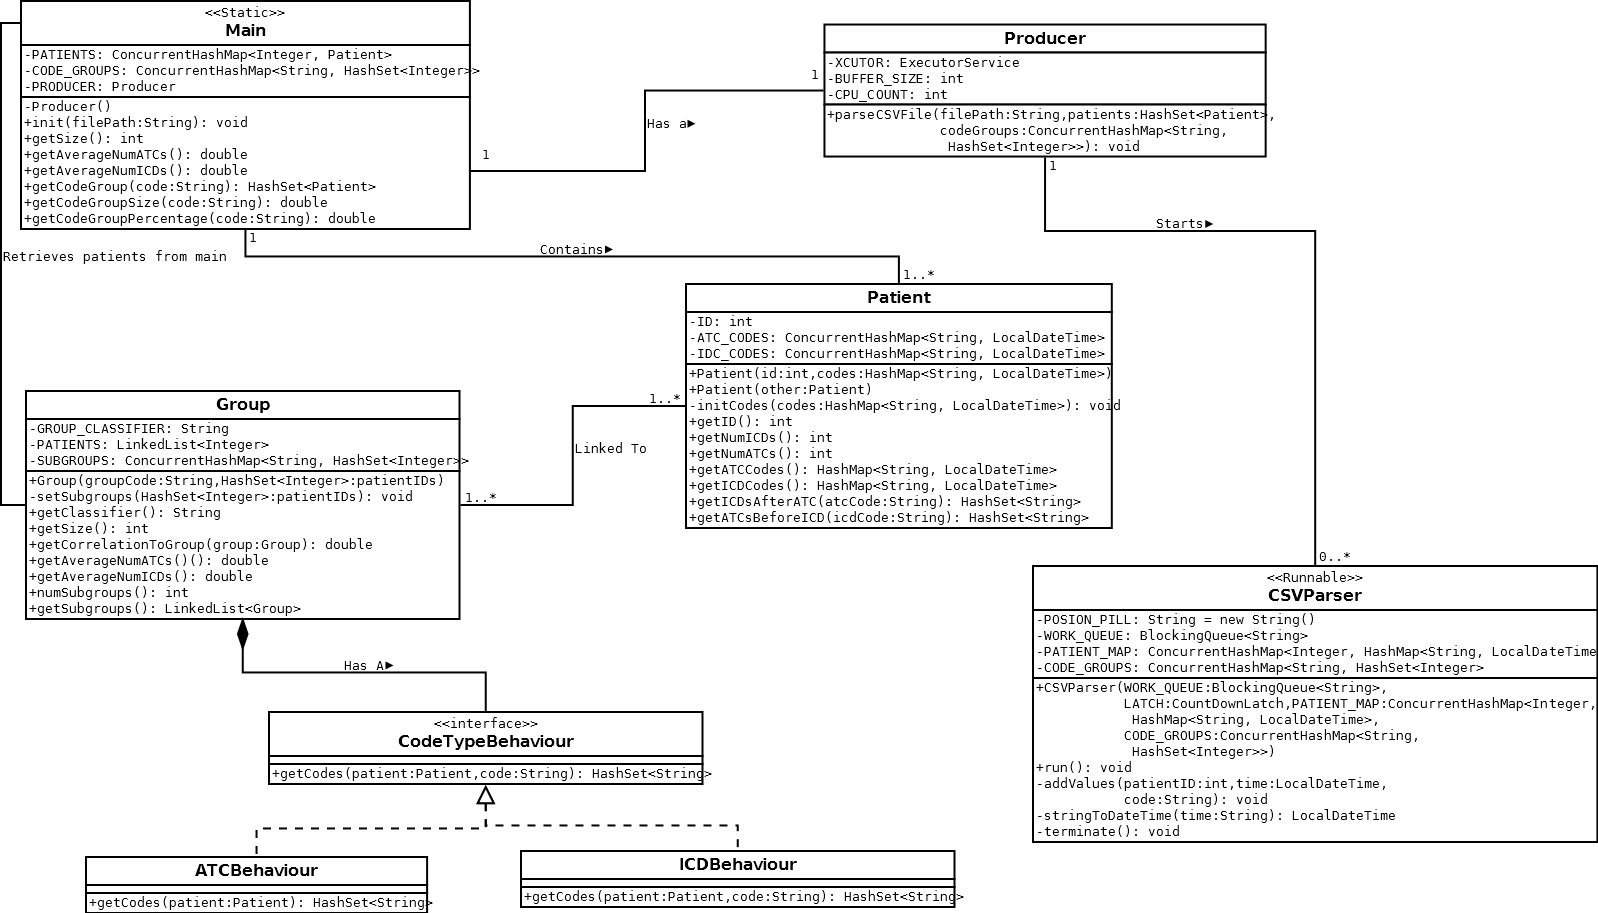
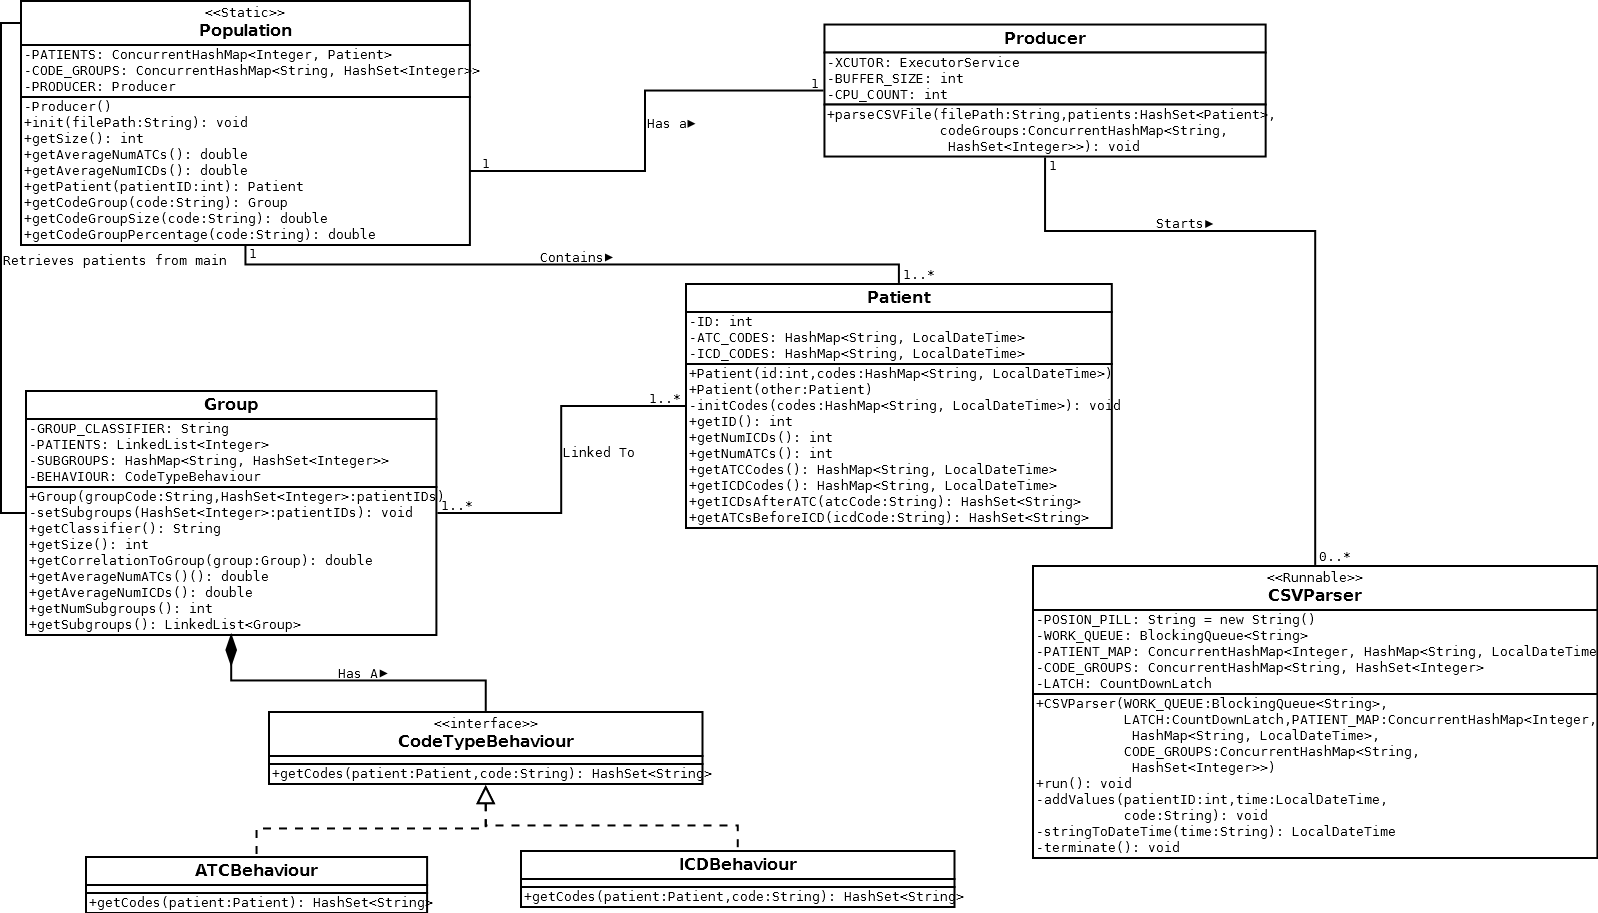
Updated UML and small changes to Group and Patient

diff --git a/junit/GroupTester.java b/junit/GroupTester.java
@@ -10,7 +10,7 @@ public class GroupTester {
 	
 	@Before
 	public void setUp() throws Exception {	
-		Population.init("E:/Dropbox/Delade mappar/FoT/Kandidatuppsats/Deluppgifter/Deliverable 5/test.csv");
+		Population.init("K:/test.csv");
 	}
 
 	
@@ -23,7 +23,7 @@ public class GroupTester {
 		int size = group.getSize();
 		double groupAverageATCs = group.getAverageNumATCs();
 		double groupAverageICDs = group.getAverageNumICDs();
-		int numSubgroups = group.numSubgroups();
+		int numSubgroups = group.getNumSubgroups();
 		
 		System.out
 				.printf("Group: %s%nGroup size: %d%nGroup average ATCs: %,.2f%nGroup average ICDs: %,.2f%nNumSubgroups: %d%n%n",

diff --git a/doris/backend/Patient.java b/doris/backend/Patient.java
@@ -9,12 +9,6 @@ public class Patient {
 	final private HashMap<String, LocalDateTime> ATC_CODES; //LocalDateTime == first report of Code
 	final private HashMap<String, LocalDateTime> ICD_CODES; //LocalDateTime == first report of Code
 	
-	public Patient(int id){
-		ID=id;
-		ATC_CODES = new HashMap<String, LocalDateTime>();
-		ICD_CODES = new HashMap<String, LocalDateTime>();
-	}
-	
 	public Patient(int id, HashMap<String, LocalDateTime> codes) throws IllegalArgumentException{
 		ATC_CODES = new HashMap<String, LocalDateTime>();
 		ICD_CODES = new HashMap<String, LocalDateTime>();

diff --git a/doris/backend/Group.java b/doris/backend/Group.java
@@ -79,7 +79,7 @@ public class Group {
 		return totalICDs/PATIENTS.size();
 	}
 	
-	public int numSubgroups(){
+	public int getNumSubgroups(){
 		return SUBGROUPS.size();
 	}
 	
